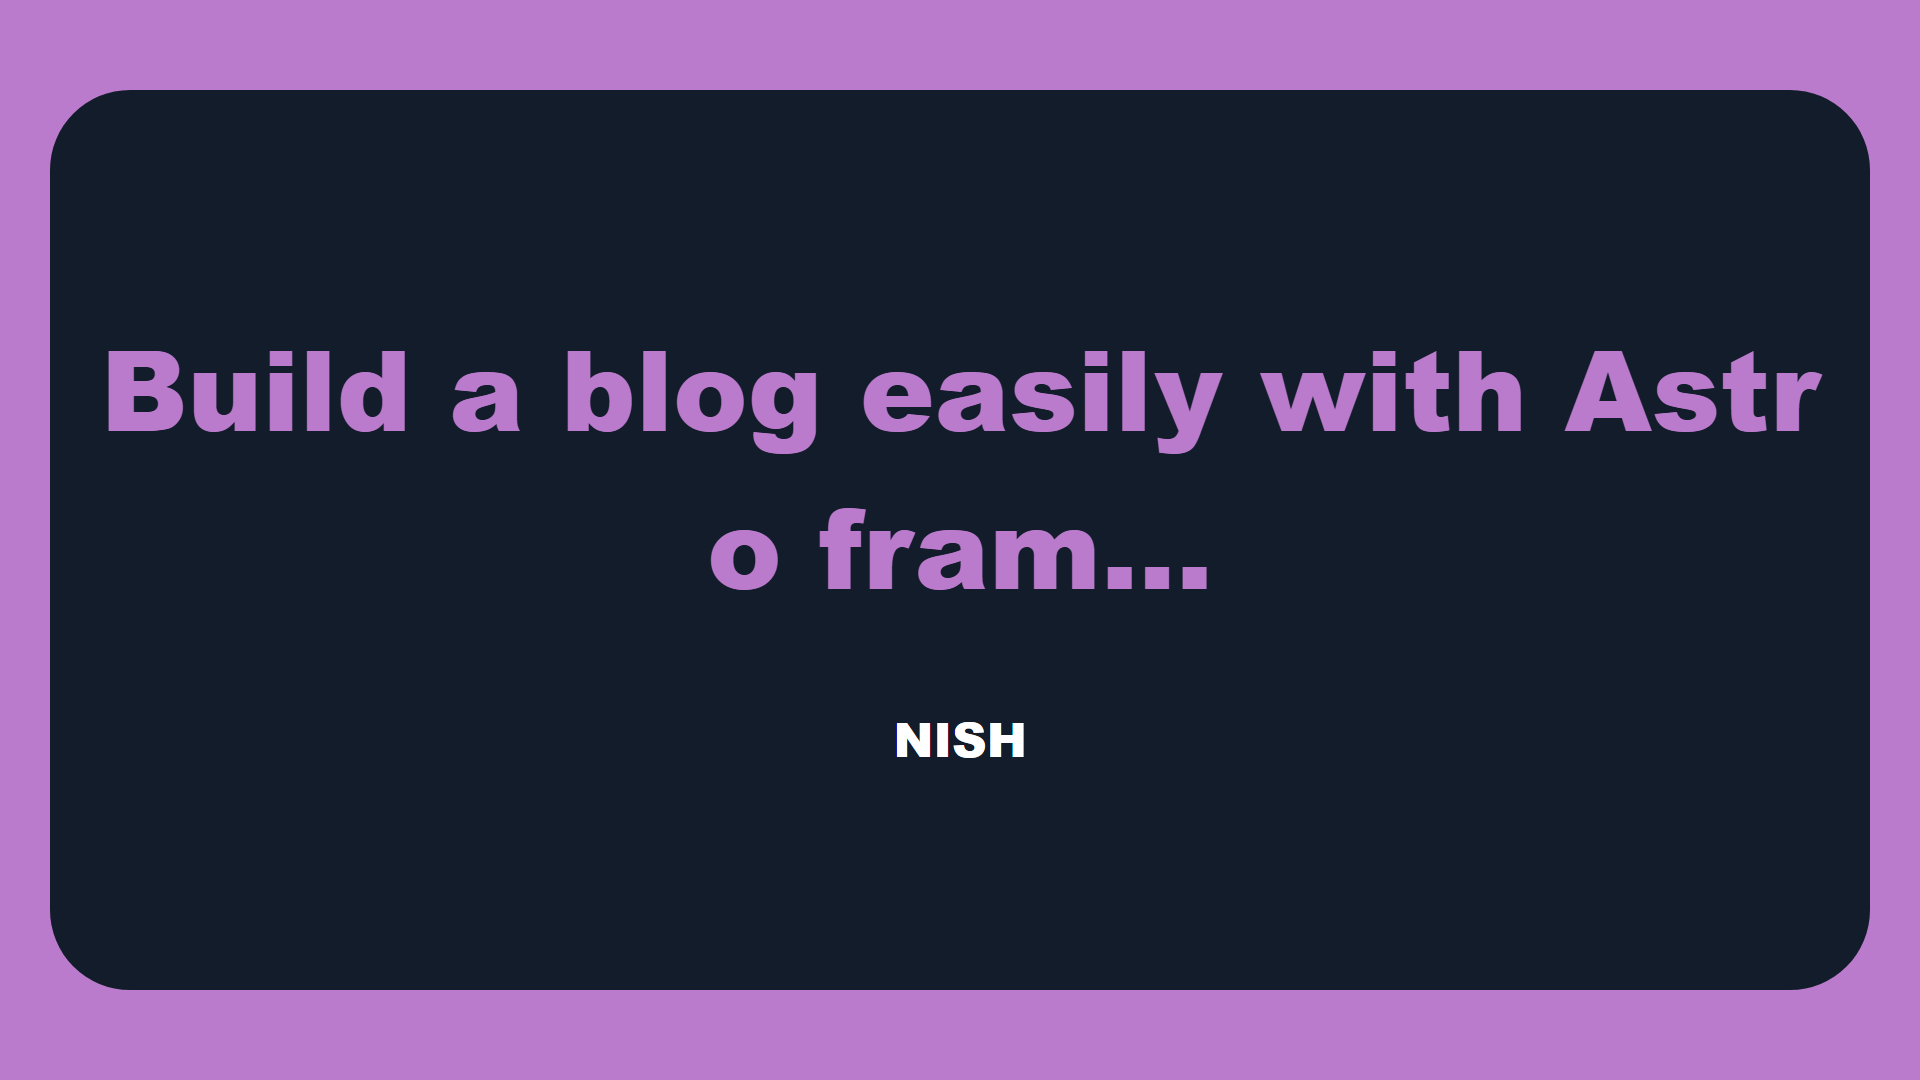
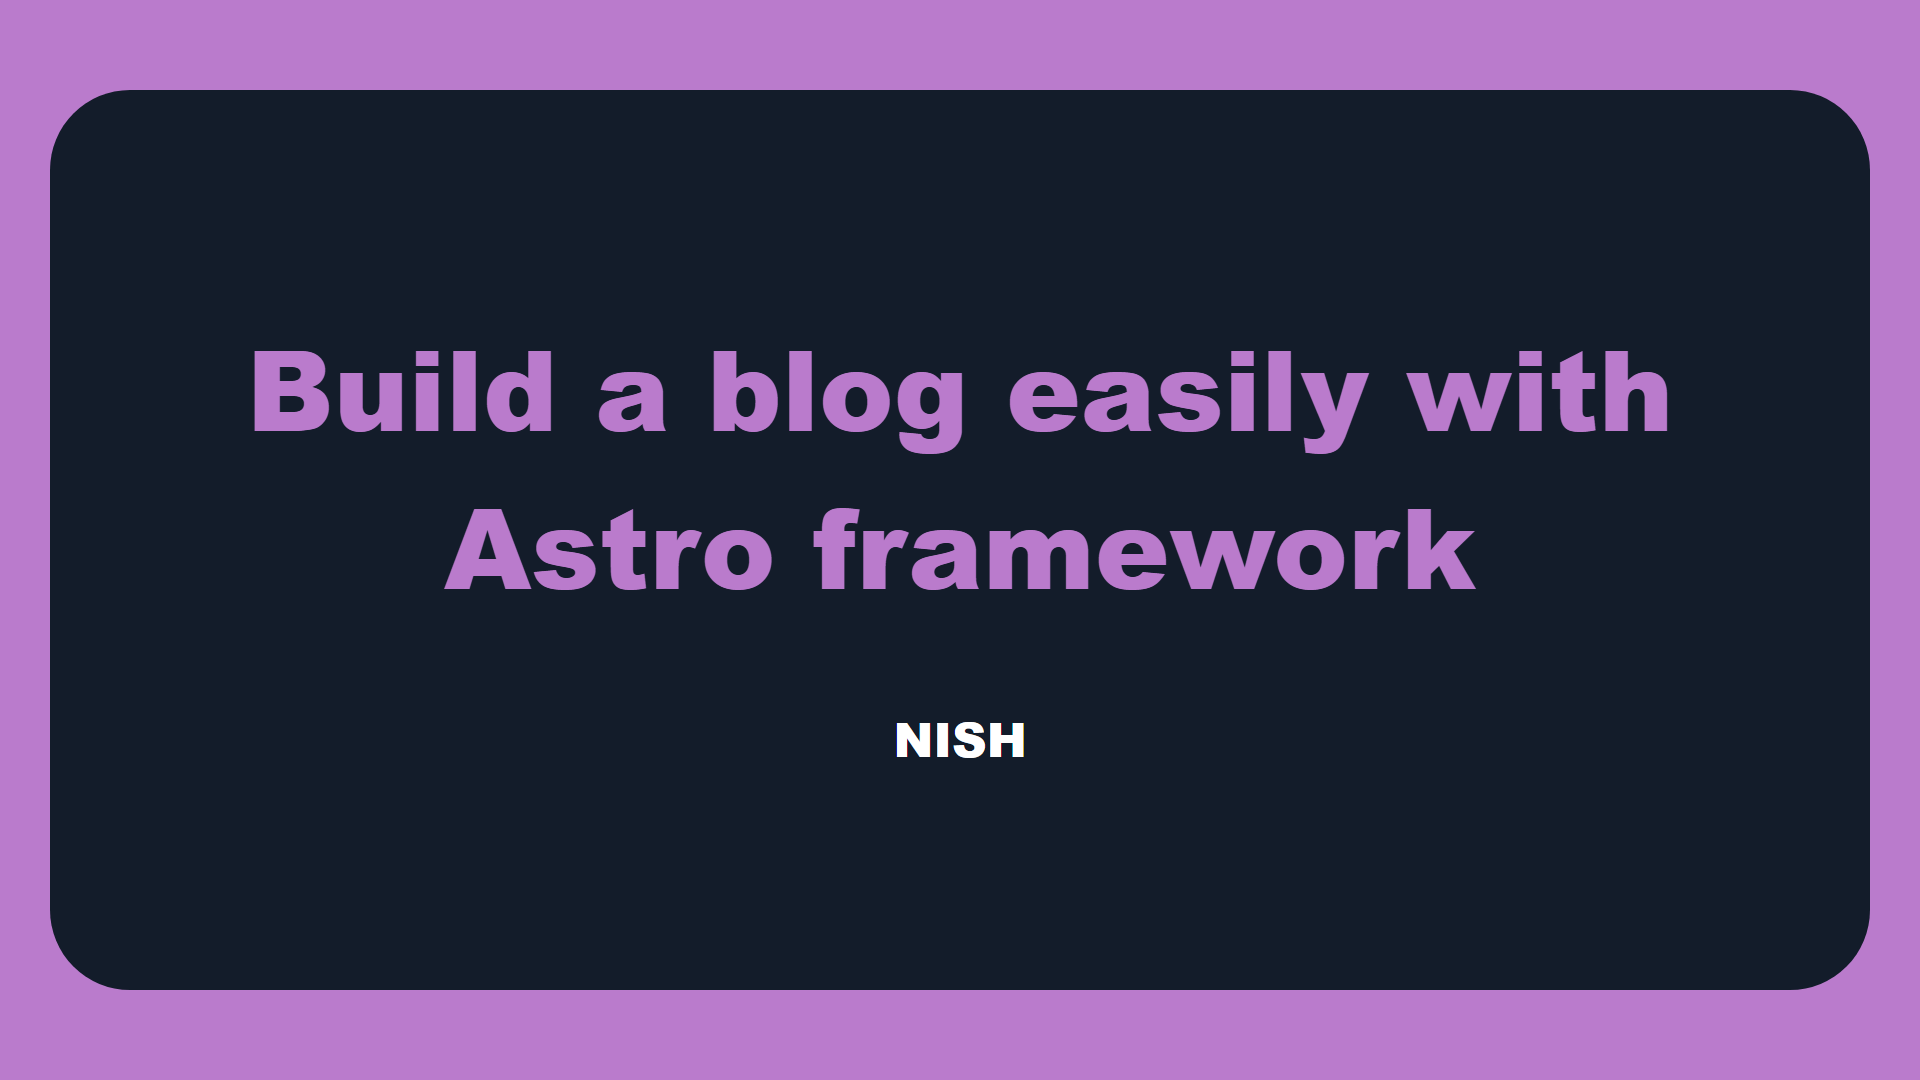
blog: fix meta image generation

Changed region(s): [[0.0312, 0.3056, 0.9688, 0.4278], [0.2188, 0.4583, 0.7812, 0.55]]

diff --git a/src/utils/createBlogPostImage.ts b/src/utils/createBlogPostImage.ts
@@ -47,7 +47,7 @@ export const createBlogPostImage = async (title: string, name: string) => {
         align-items: center;
         height: 100vh;
         padding: 0 3rem;
-        word-break: break-all;
+        word-break: break-word;
       }
 
       h1 {
@@ -74,7 +74,7 @@ export const createBlogPostImage = async (title: string, name: string) => {
         <div class="text-bg">
             <div class="image">
                 <h1>${
-                  title.length > 35 ? title.slice(0, 35) + "..." : title
+                  title.length > 43 ? title.slice(0, 35) + "..." : title
                 }</h1>
                 <span class="nish">NISH</span>
             </div>
